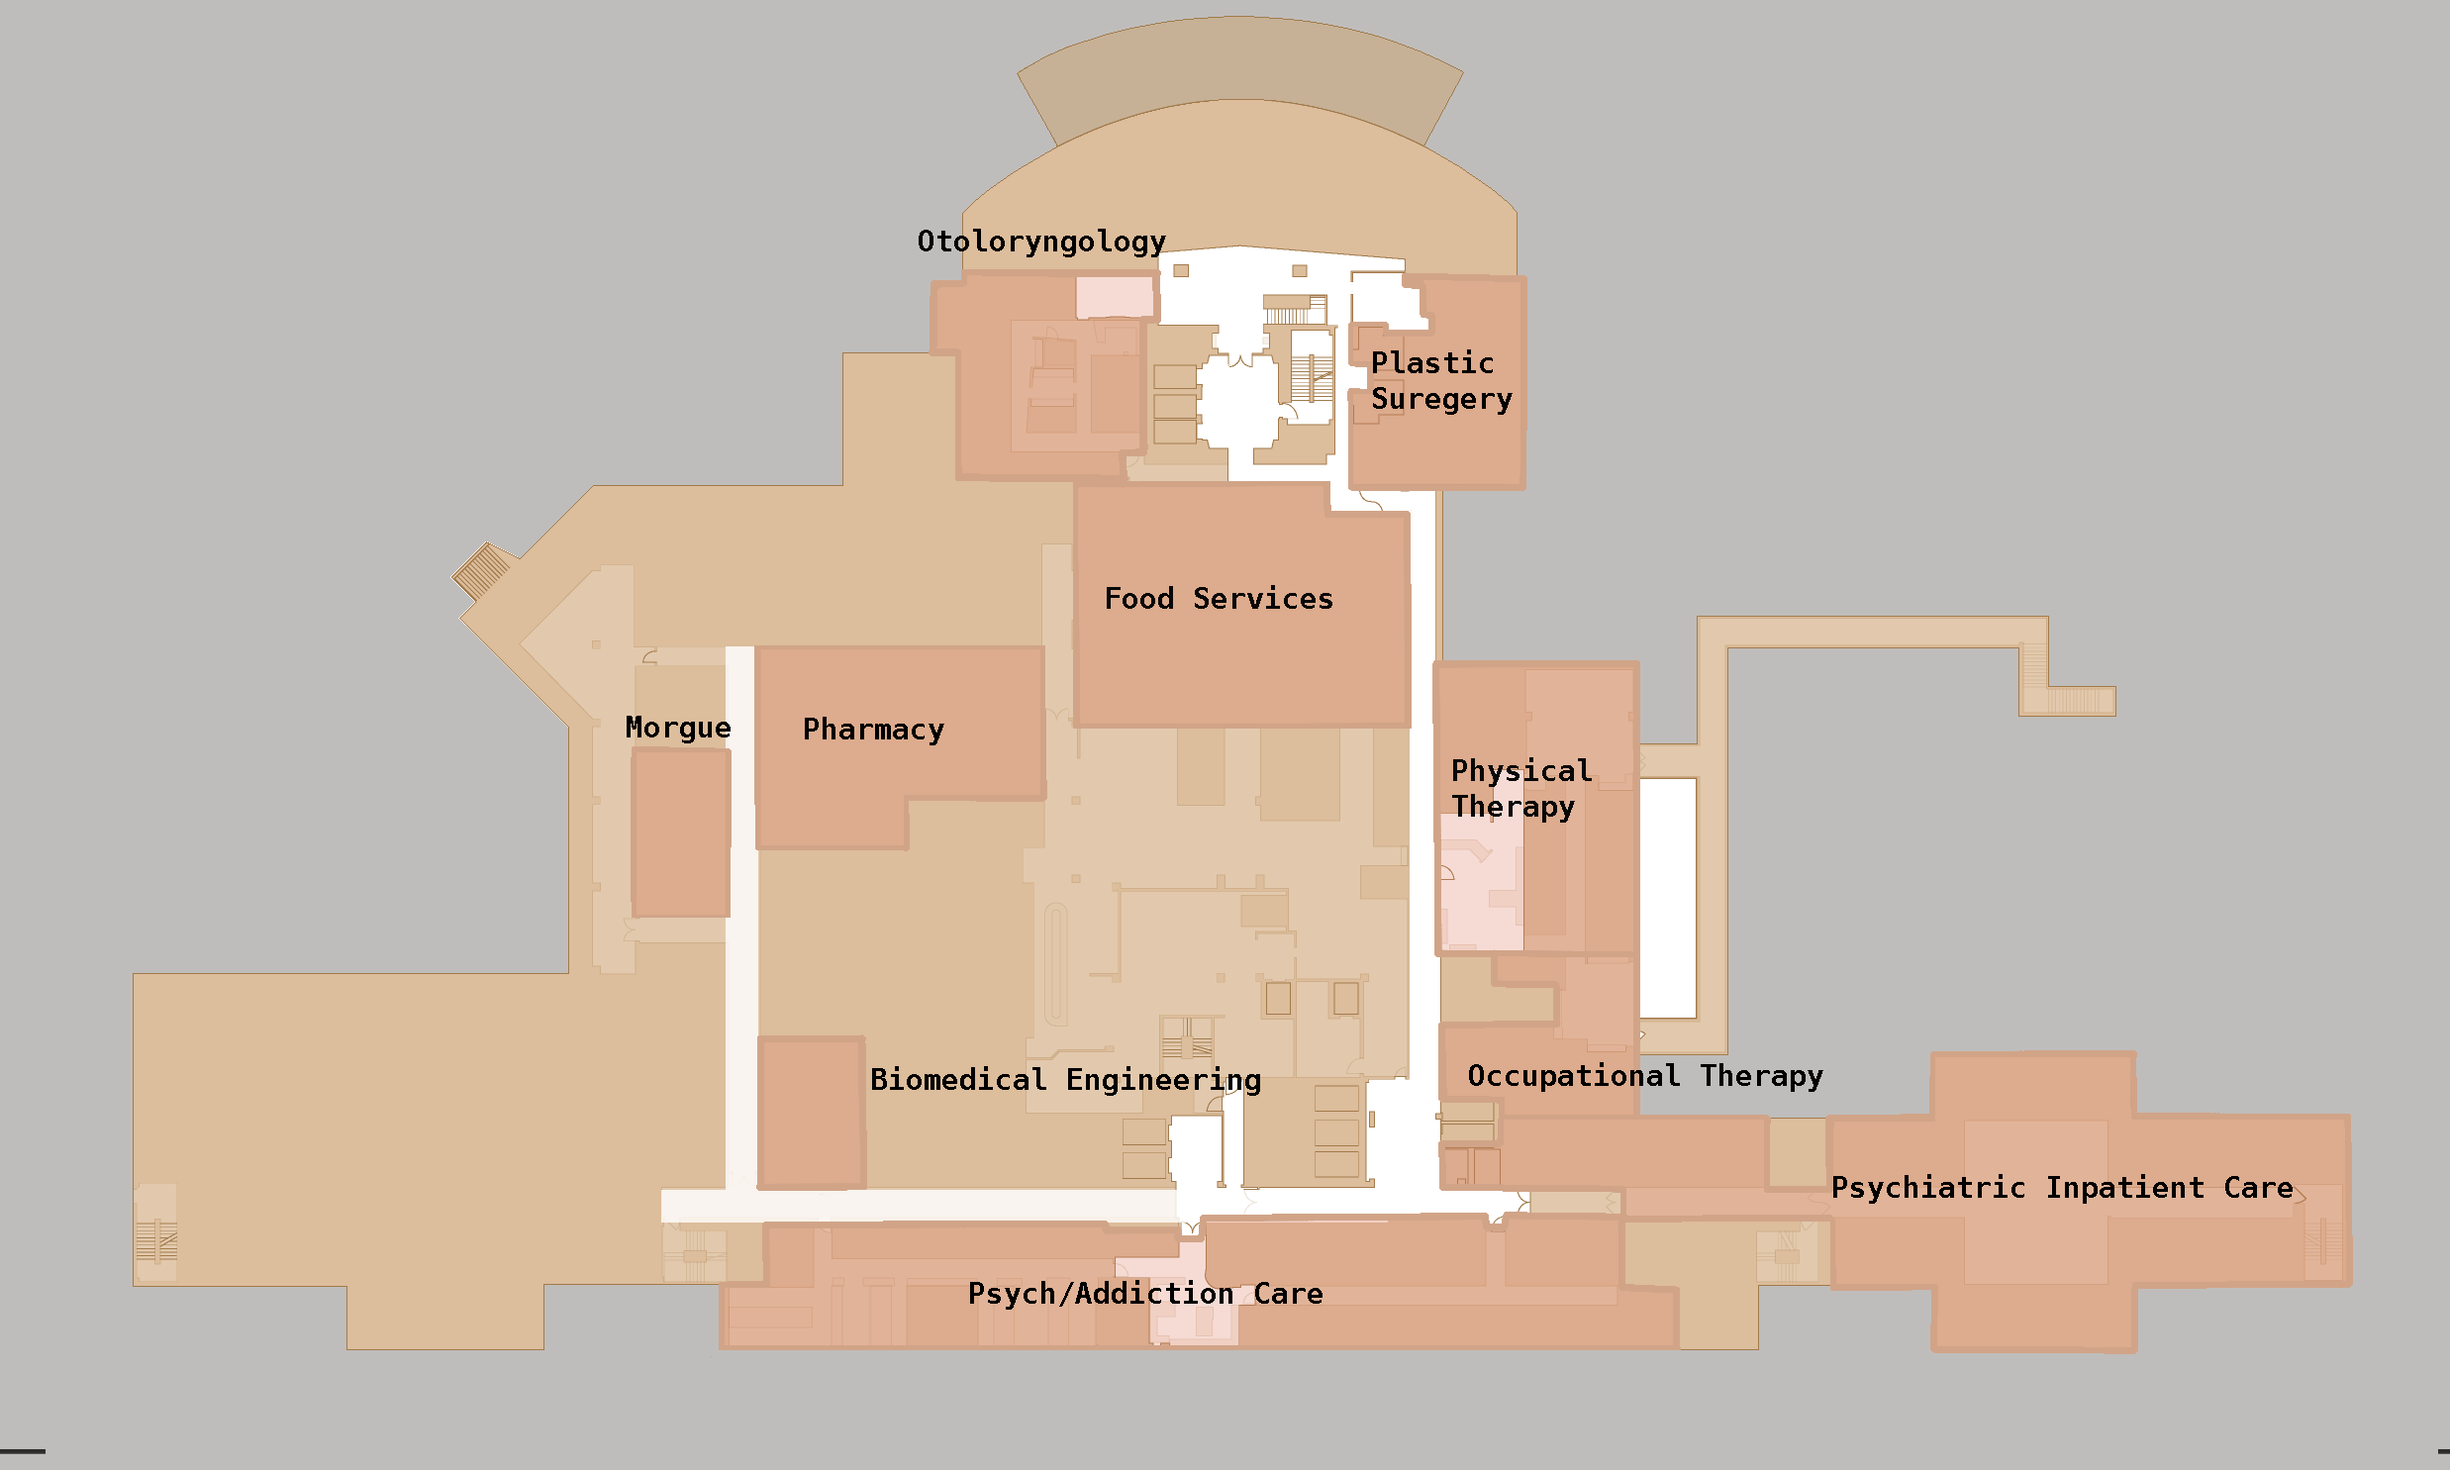
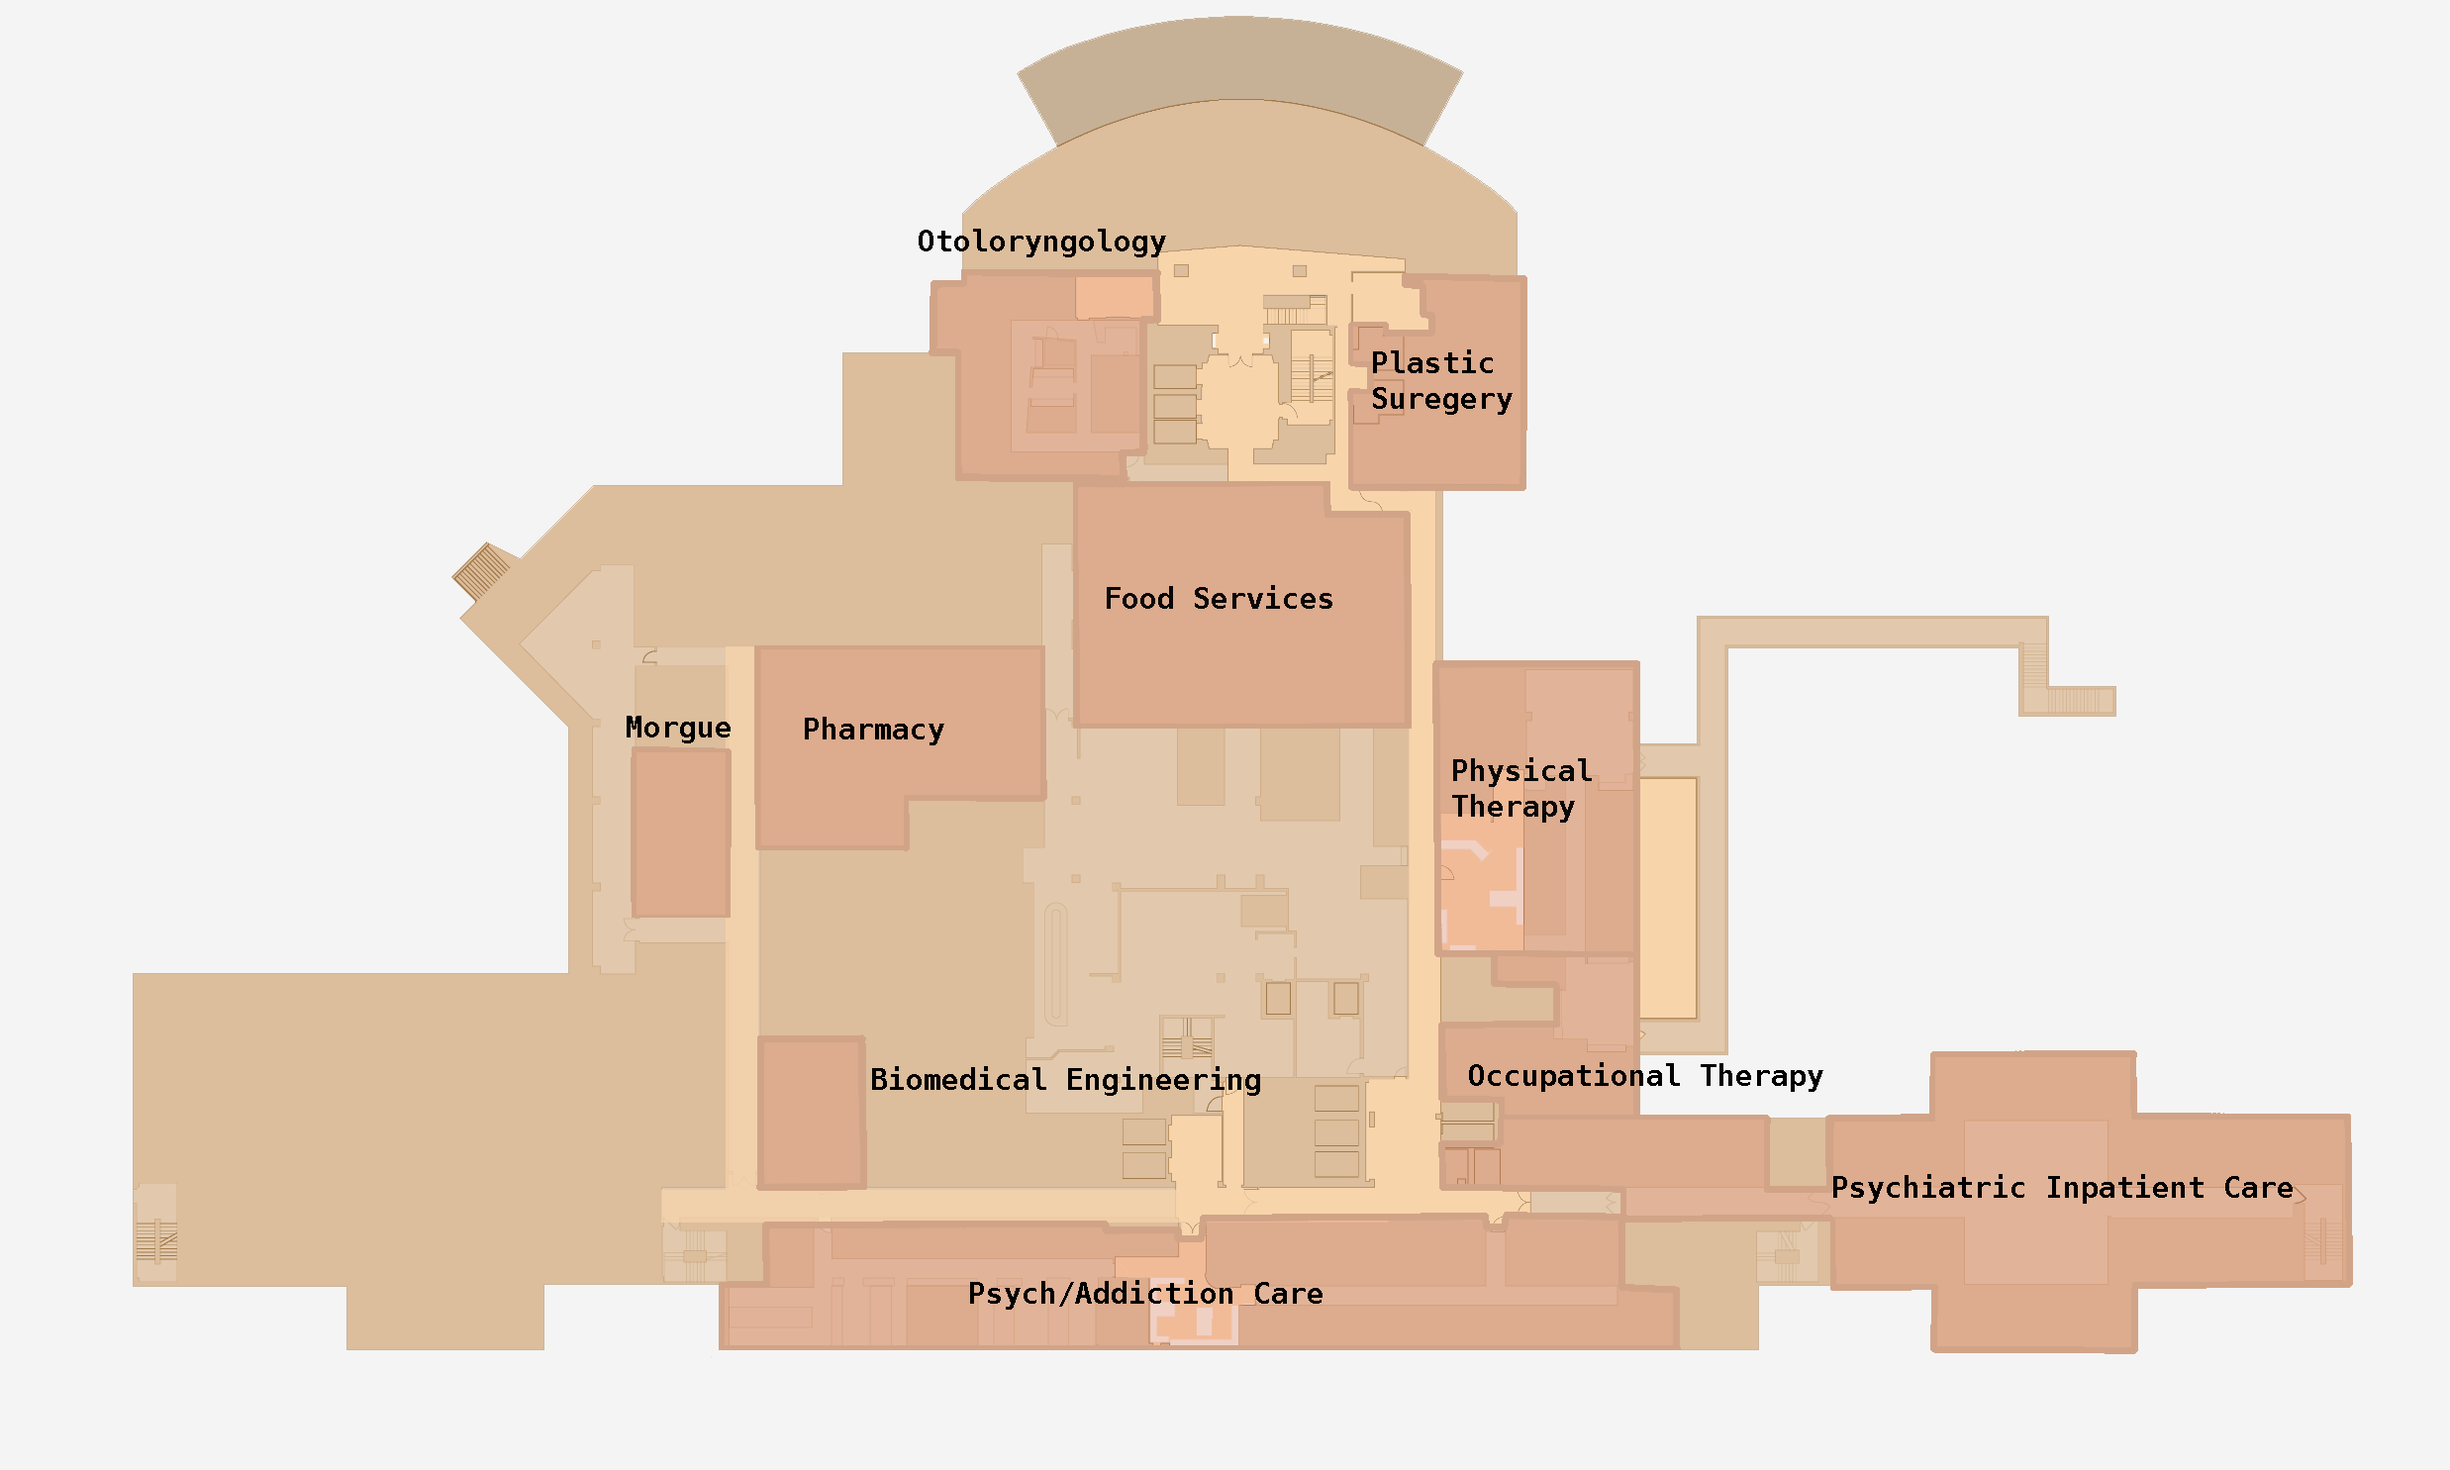
Fixed Zoom Bug & Background Color. -Removed duplicate controller

diff --git a/src/main/java/edu/wpi/cs3733/c20/teamS/Editing/EditScreenController.java b/src/main/java/edu/wpi/cs3733/c20/teamS/Editing/EditScreenController.java
@@ -39,6 +39,9 @@ public class EditScreenController implements Initializable {
         int current_floor = 2;
         String newFloor;
         private MapZoomer zoomer;
+        private double currentHval;
+        private double currentVval;
+
         Image floor1 = new Image("images/Floors/HospitalFloor1.png");
         Image floor2 = new Image("images/Floors/HospitalFloor2.png");
         Image floor3 = new Image("images/Floors/HospitalFloor3.png");
@@ -63,6 +66,8 @@ public class EditScreenController implements Initializable {
     @FXML
     private JFXButton upButton;
 
+    @FXML JFXButton zoomInButton;
+    @FXML JFXButton zoomOutButton;
 
         @FXML private JFXButton cancelEditsButton;
         @FXML private JFXButton confirmEditButton;
@@ -105,38 +110,38 @@ public class EditScreenController implements Initializable {
     @FXML
     void onDownClicked(ActionEvent event) {
         current_floor -= 1;
-        ;
         if (current_floor == 1) {
             set1();
             mapImage.setImage(floor1);
             current_floor = 1;
             drawNodesEdges();
         }
-        if (current_floor == 2) {
+        else if (current_floor == 2) {
             set2();
-            current_floor = 2;
             mapImage.setImage(floor2);
+            current_floor = 2;
             drawNodesEdges();
 
         }
-        if (current_floor == 3) {
+        else if (current_floor == 3) {
             set3();
             mapImage.setImage(floor3);
             current_floor = 3;
             drawNodesEdges();
         }
-        if (current_floor == 4) {
+        else if (current_floor == 4) {
             set4();
             mapImage.setImage(floor4);
             current_floor = 4;
             drawNodesEdges();
         }
-        if (current_floor == 5) {
+        else if (current_floor == 5) {
             set5();
             mapImage.setImage(floor5);
             current_floor = 5;
             drawNodesEdges();
         }
+
     }
 
     void set1() {
@@ -147,6 +152,7 @@ public class EditScreenController implements Initializable {
         floorButton5.setStyle("-fx-background-color: #ffffff; -fx-font: 22 System;");
         upButton.setDisable(false);
         downButton.setDisable(true);
+
     }
 
     void set2() {
@@ -155,7 +161,6 @@ public class EditScreenController implements Initializable {
         floorButton3.setStyle("-fx-background-color: #ffffff; -fx-font: 22 System;");
         floorButton4.setStyle("-fx-background-color: #ffffff; -fx-font: 22 System;");
         floorButton5.setStyle("-fx-background-color: #ffffff; -fx-font: 22 System;");
-        mapImage.setImage(floor2);
         upButton.setDisable(false);
         downButton.setDisable(false);
     }
@@ -166,6 +171,8 @@ public class EditScreenController implements Initializable {
         floorButton3.setStyle("-fx-background-color: #f6bd38; -fx-font: 32 System;");
         floorButton4.setStyle("-fx-background-color: #ffffff; -fx-font: 22 System;");
         floorButton5.setStyle("-fx-background-color: #ffffff; -fx-font: 22 System;");
+        upButton.setDisable(false);
+        downButton.setDisable(false);
     }
 
     void set4() {
@@ -200,8 +207,8 @@ public class EditScreenController implements Initializable {
     @FXML
     void onFloorClicked2(ActionEvent event) {
         set2();
-        current_floor = 2;
         mapImage.setImage(floor2);
+        current_floor = 2;
         drawNodesEdges();
     }
 
@@ -211,8 +218,6 @@ public class EditScreenController implements Initializable {
         set3();
         mapImage.setImage(floor3);
         current_floor = 3;
-        upButton.setDisable(false);
-        downButton.setDisable(false);
         drawNodesEdges();
     }
 
@@ -259,12 +264,21 @@ public class EditScreenController implements Initializable {
     @FXML
     void onZoomInClicked(ActionEvent event) {
         this.zoomer.zoomIn();
+        if (zoomer.getZoomFactor() == 3){
+            zoomInButton.setDisable(true);
+            zoomOutButton.setDisable(false);
+        }
+
+
     }
 
     @FXML
     void onZoomOutClicked(ActionEvent event) {
-        Node content = scrollPane.getContent();
         this.zoomer.zoomOut();
+        if (zoomer.getZoomFactor() == -2){
+            zoomOutButton.setDisable(true);
+            zoomInButton.setDisable(false);
+        }
     }
 
     public JFXButton getFloor2() {
@@ -277,6 +291,8 @@ public class EditScreenController implements Initializable {
     }
 
     public void drawNodesEdges() {
+            currentHval = scrollPane.getHvalue();
+            currentVval = scrollPane.getVvalue();
 
         String floor = "0" + current_floor;
 
@@ -350,5 +366,11 @@ public class EditScreenController implements Initializable {
         cancelEditsButton.setOnAction(e -> {tester.cancelChanges(); new MapEditingScreen(stage);});
 
         scrollPane.setContent(group);
+
+        //Keeps the zoom the same throughout each screen/floor change.
+        zoomer.zoomSet();
+        scrollPane.setHvalue(currentHval);
+        scrollPane.setVvalue(currentVval);
+
     }
 }

diff --git a/src/main/java/edu/wpi/cs3733/c20/teamS/mainScreenController.java b/src/main/java/edu/wpi/cs3733/c20/teamS/mainScreenController.java
@@ -103,6 +103,7 @@ public class mainScreenController implements Initializable {
             if (tester2.getCounter() >= 2) {
                 tester2.pathDraw(current_floor);
             }
+            this.zoomer.zoomSet();
             drawNodesEdges();
         }
     }
@@ -155,6 +156,7 @@ public class mainScreenController implements Initializable {
             if (tester2.getCounter() >= 2) {
                 tester2.pathDraw(current_floor);
             }
+            this.zoomer.zoomSet();
             drawNodesEdges();
         }
     }
@@ -213,6 +215,7 @@ public class mainScreenController implements Initializable {
         set1();
         mapImage.setImage(floor1);
         current_floor = 1;
+        this.zoomer.zoomSet();
         if (tester2.getCounter() >= 2) {
             tester2.pathDraw(current_floor);
         }
@@ -224,6 +227,7 @@ public class mainScreenController implements Initializable {
     void onFloorClicked2(ActionEvent event) {
         set2();
         current_floor = 2;
+        this.zoomer.zoomSet();
         if (tester2.getCounter() >= 2) {
             tester2.pathDraw(current_floor);
         }
@@ -237,6 +241,7 @@ public class mainScreenController implements Initializable {
         set3();
         mapImage.setImage(floor3);
         current_floor = 3;
+        this.zoomer.zoomSet();
         upButton.setDisable(false);
         downButton.setDisable(false);
         if (tester2.getCounter() >= 2) {
@@ -251,6 +256,7 @@ public class mainScreenController implements Initializable {
         set4();
         mapImage.setImage(floor4);
         current_floor = 4;
+        this.zoomer.zoomSet();
         if (tester2.getCounter() >= 2) {
             tester2.pathDraw(current_floor);
         }
@@ -264,6 +270,7 @@ public class mainScreenController implements Initializable {
         set5();
         mapImage.setImage(floor5);
         current_floor = 5;
+        this.zoomer.zoomSet();
         if (tester2.getCounter() >= 2) {
             tester2.pathDraw(current_floor);
         }
@@ -298,7 +305,7 @@ public class mainScreenController implements Initializable {
 
     @FXML
     void onZoomOutClicked(ActionEvent event) {
-        Node content = scrollPane.getContent();
+        //Node content = scrollPane.getContent();
         this.zoomer.zoomOut();
     }
 

diff --git a/src/main/java/edu/wpi/cs3733/c20/teamS/MapZoomer.java b/src/main/java/edu/wpi/cs3733/c20/teamS/MapZoomer.java
@@ -48,6 +48,9 @@ public class MapZoomer {
         ;
     }
 
+    public void zoomSet() {
+        updateImageSize();
+    }
     private void updateBounds() {
 
         double rangeSize = zoomFactor();
@@ -56,5 +59,9 @@ public class MapZoomer {
 
         Bounds newbound = mapView.getBoundsInParent();
 
+    }
+
+    public double getZoomFactor(){
+        return this.zoomFactor();
     }
 }
